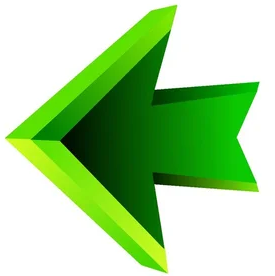
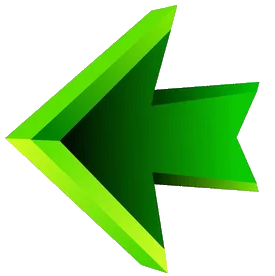
feat: aplicar las mismas reglas en edición que en mantenimiento en modo ficha para transitar

diff --git a/SistemaDeElementos/wwwroot/ts/_Crud/CrudEdicion.ts b/SistemaDeElementos/wwwroot/ts/_Crud/CrudEdicion.ts
@@ -179,8 +179,24 @@
             return this.EsDeProceso ? ObtenerPropiedad(this.Registro, ltrPropiedades.Elemento.DeProceso.TransicionAplicable, 0) : undefined;
         }
 
-        public get HayMasDeUnaTransicionParaAvanzar(): boolean {
-            return this.EsDeProceso ? Numero(ObtenerPropiedad(this.Registro, ltrPropiedades.Elemento.DeProceso.TransicionesDisponibles, 0)) > 1 : undefined;
+        public get TransicionesDisponibles(): number {
+            return this.EsDeProceso ? Numero(ObtenerPropiedad(this.Registro, ltrPropiedades.Elemento.DeProceso.TransicionesDisponibles, 0)) : 0;
+        }
+
+        public get MostrarModalParaAvanzar(): boolean {
+            return this.EsDeProceso ? ObtenerPropiedad(this.Registro, ltrPropiedades.Elemento.DeProceso.MostrarModalParaAvanzar, false) : false;
+        }
+
+        public get IdTransicionParaDevolver(): number {
+            return this.EsDeProceso ? ObtenerPropiedad(this.Registro, ltrPropiedades.Elemento.DeProceso.IdTransicionParaDevolver, 0) : undefined;
+        }
+
+        public get TransicionParaDevolver(): string {
+            return this.EsDeProceso ? ObtenerPropiedad(this.Registro, ltrPropiedades.Elemento.DeProceso.TransicionParaDevolver, 0) : undefined;
+        }
+
+        public get MostrarModalParaDevolver(): boolean {
+            return this.EsDeProceso ? ObtenerPropiedad(this.Registro, ltrPropiedades.Elemento.DeProceso.MostrarModalParaDevolver, false) : false;
         }
 
         public get EstaTerminada(): boolean {
@@ -1108,14 +1124,34 @@
                 .catch((peticion: ApiDeAjax.DescriptorAjax) => ApiDePeticiones.EmitirError(peticion));
         }
 
+        // Mismas reglas que las fichas del tablero (CrudMantenimiento.TransitarAvanzarDesdeFicha
+        // / TransitarDevolverDesdeFicha): aquí siempre hay detalle real (LeerPorIdParaEditar ya
+        // calcula TransicionesDisponibles/MostrarModalParaAvanzar/MostrarModalParaDevolver), así
+        // que no hace falta la distinción por selección múltiple que sí necesitan las fichas.
         private Transitar(accion: string): void {
-
-            if (accion === ltrEventos.Edicion.Avanzar && this.HayMasDeUnaTransicionParaAvanzar) {
-                crudMnt.ModalTransitar_Abrir(this.Id, this.IdTransicionAplicable);
+            if (accion === ltrEventos.Edicion.Retroceder) {
+                if (!this.MostrarModalParaDevolver) {
+                    this.TransitarDirecto(this.IdTransicionParaDevolver);
+                    return;
+                }
+                crudMnt.ModalTransitar_Abrir(this.Id, this.IdTransicionParaDevolver);
                 return;
             }
 
-            let parametros = this.ParametrosParaTransitar(accion);
+            if (this.TransicionesDisponibles === 1 && !this.MostrarModalParaAvanzar) {
+                this.TransitarDirecto(this.IdTransicionAplicable);
+                return;
+            }
+            crudMnt.ModalTransitar_Abrir(this.Id, this.IdTransicionAplicable);
+        }
+
+        protected TransitarDirecto(idTransicion: number): void {
+            let parametros: Array<Parametro> = new Array<Parametro>();
+            parametros.push(new Parametro(ltrPropiedades.Negocio.idNegocio, this.CrudDeMnt.IdNegocio));
+            parametros.push(new Parametro(ltrPropiedades.Elemento.IdElemento, this.Id));
+            parametros.push(new Parametro(ltrPropiedades.Transiciones.Origen, this.IdEstado));
+            parametros.push(new Parametro(Ajax.Param.idTransicion, idTransicion));
+
             if (this.HayCambiosPendientes)
                 this.TransitarTrasModificar(parametros);
             else
@@ -1125,18 +1161,6 @@
                         crudEdicion.Recargar();
                     })
                     .catch((peticion) => ApiDePeticiones.EmitirError(peticion));
-        }
-
-        protected ParametrosParaTransitar(accion: string): Array<Parametro> {
-            let parametros: Array<Parametro> = new Array<Parametro>();
-            parametros.push(new Parametro(ltrPropiedades.Negocio.idNegocio, this.CrudDeMnt.IdNegocio));
-            parametros.push(new Parametro(ltrPropiedades.Elemento.IdElemento, this.Id));
-            parametros.push(new Parametro(ltrPropiedades.Transiciones.Origen, this.IdEstado));
-            if (accion === ltrEventos.Edicion.Retroceder)
-                parametros.push(new Parametro(ltrPropiedades.Transiciones.Destino, this.IdEstadoAnterior));
-            else
-                parametros.push(new Parametro(Ajax.Param.idTransicion, this.IdTransicionAplicable));
-            return parametros;
         }
 
         protected async CerrarEdicion() {
@@ -1446,22 +1470,23 @@
                 return
             }
 
-            if (!Definido(this.EstadoAnterior)) {
+            // mismas reglas que InicializarFicha en CrudMantenimiento.ts
+            if (!Definido(this.IdTransicionParaDevolver)) {
                 ApiControl.DeshabilitarRef(this.BotonDevolver.parentElement as HTMLAnchorElement);
                 this.BotonDevolver.title = '';
             }
             else {
                 ApiControl.HabilitarRef(this.BotonDevolver.parentElement as HTMLAnchorElement);
-                this.BotonDevolver.title = `Devolver al estado '${this.EstadoAnterior}'`;
+                this.BotonDevolver.title = Definido(this.TransicionParaDevolver) ? `${this.TransicionParaDevolver}` : 'Devolver';
             }
 
-            if (!Definido(this.TransicionAplicable)) {
+            if (this.TransicionesDisponibles === 0) {
                 ApiControl.DeshabilitarRef(this.BotonAvanzar.parentElement as HTMLAnchorElement);
                 this.BotonAvanzar.title = '';
             }
             else {
                 ApiControl.HabilitarRef(this.BotonAvanzar.parentElement as HTMLAnchorElement);
-                this.BotonAvanzar.title = `${this.TransicionAplicable}`;
+                this.BotonAvanzar.title = Definido(this.TransicionAplicable) ? `${this.TransicionAplicable}` : 'Transitar';
             }
         }
 

diff --git a/SistemaDeElementos/wwwroot/ts/_Crud/CrudMantenimiento.ts b/SistemaDeElementos/wwwroot/ts/_Crud/CrudMantenimiento.ts
@@ -896,9 +896,15 @@
             MapearAlPanel.ElObjeto(crudMnt.ContenedorDeGraficos, peticion.resultado.datos, ModoAcceso.enumModoDeAccesoDeDatos.Consultor, new Array<string>());
 
             // aquí llega el detalle real del elemento (TransicionesDisponibles/
-            // MostrarModalParaAvanzar, que solo se calculan al leer un elemento individual): si
-            // hay una única ficha seleccionada se refresca su botón avanzar con el criterio
-            // exacto, en vez del genérico que se usa mientras no se conoce ese detalle.
+            // MostrarModalParaAvanzar/IdTransicionParaDevolver/MostrarModalParaDevolver, que
+            // solo se calculan al leer un elemento individual). Se cachea siempre, esté o no
+            // activo el tablero de fichas en este momento: si luego se cambia de vista sin
+            // cambiar de selección, ActualizarControlesDeTransicionDeFichas ya lo tiene
+            // disponible sin esperar a una segunda petición.
+            if (this.InfoSelector.Cantidad === 1) {
+                this._detalleRealSeleccion = peticion.resultado.datos;
+            }
+
             if (this._vistaDeFichasActiva && Definido(this._contenedorDeFichas) && this.InfoSelector.Cantidad === 1) {
                 const tarjeta = this._contenedorDeFichas.querySelector<HTMLDivElement>(`[data-id="${this.InfoSelector.IdsSeleccionados[0]}"]`);
                 if (Definido(tarjeta)) this.InicializarFicha(tarjeta, peticion.resultado.datos, true);
@@ -1137,6 +1143,11 @@
         }
         private _contenedorDeFichas: HTMLDivElement = null;
 
+        // detalle real (LeerPorIdParaEditar) del último elemento único leído vía
+        // MostrarDatosPrincipales, tanto desde la tabla como desde una ficha; se usa para
+        // habilitar bien los botones de transición aunque se cambie de vista entre medias
+        private _detalleRealSeleccion: any = null;
+
         public AlternarVistaDeFichas(): void {
             this._vistaDeFichasActiva = !this._vistaDeFichasActiva;
 
@@ -1348,14 +1359,18 @@
 
             // con una única ficha seleccionada usamos el detalle real (TransicionesDisponibles/
             // MostrarModalParaAvanzar), que solo se calcula al leer el elemento individual
-            // (GestorDeElementos.cs, LeerPorIdParaEditar) y llega vía MapearDatosPrincipales.
-            // Con varias seleccionadas no hay ese detalle por elemento: se deja siempre
-            // habilitado y es el propio modal el que consulta al servidor qué hay disponible.
-            const registroDeReferencia = seleccionados[0].Registro;
-            const conDetalleReal = seleccionados.length === 1;
+            // (GestorDeElementos.cs, LeerPorIdParaEditar). _detalleRealSeleccion lo cachea
+            // MapearDatosPrincipales para el id actualmente seleccionado; si no coincide el id
+            // (selección distinta, o aún no ha llegado la respuesta) se usa el registro "plano"
+            // del listado y se trata como si no hubiera detalle real todavía.
+            const idUnicoSeleccionado = seleccionados.length === 1 ? seleccionados[0].Id : undefined;
+            const hayDetalleReal = Definido(idUnicoSeleccionado) && Definido(this._detalleRealSeleccion) &&
+                Numero(ObtenerPropiedad(this._detalleRealSeleccion, literal.id, -1)) === idUnicoSeleccionado;
+
+            const registroDeReferencia = hayDetalleReal ? this._detalleRealSeleccion : seleccionados[0].Registro;
             seleccionados.forEach((elemento) => {
                 const tarjeta = this._contenedorDeFichas.querySelector<HTMLDivElement>(`[data-id="${elemento.Id}"]`);
-                if (Definido(tarjeta)) this.InicializarFicha(tarjeta, registroDeReferencia, conDetalleReal);
+                if (Definido(tarjeta)) this.InicializarFicha(tarjeta, registroDeReferencia, hayDetalleReal);
             });
         }
 
